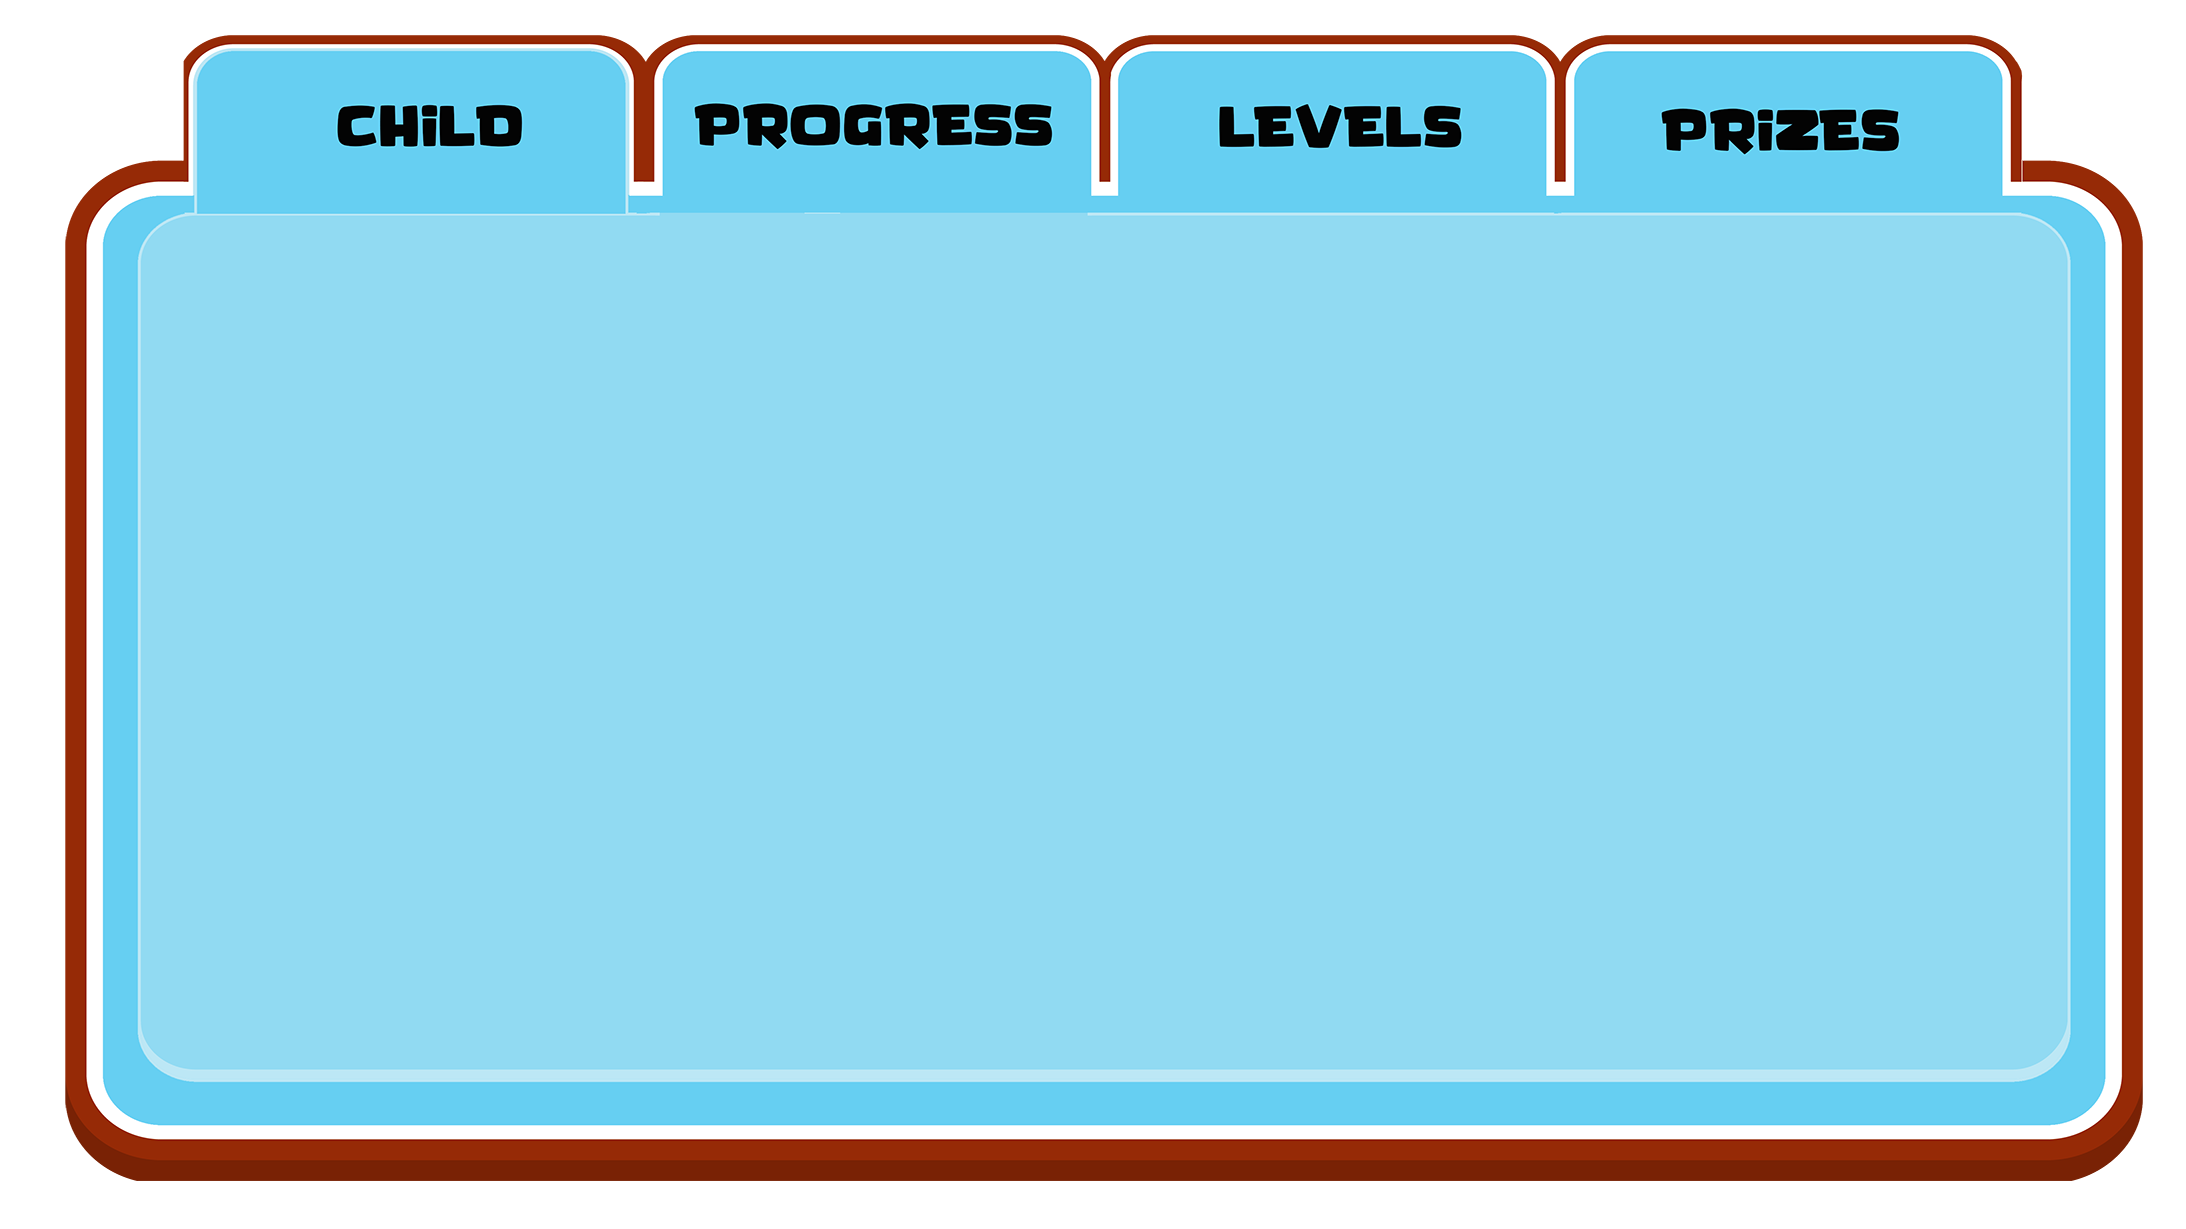
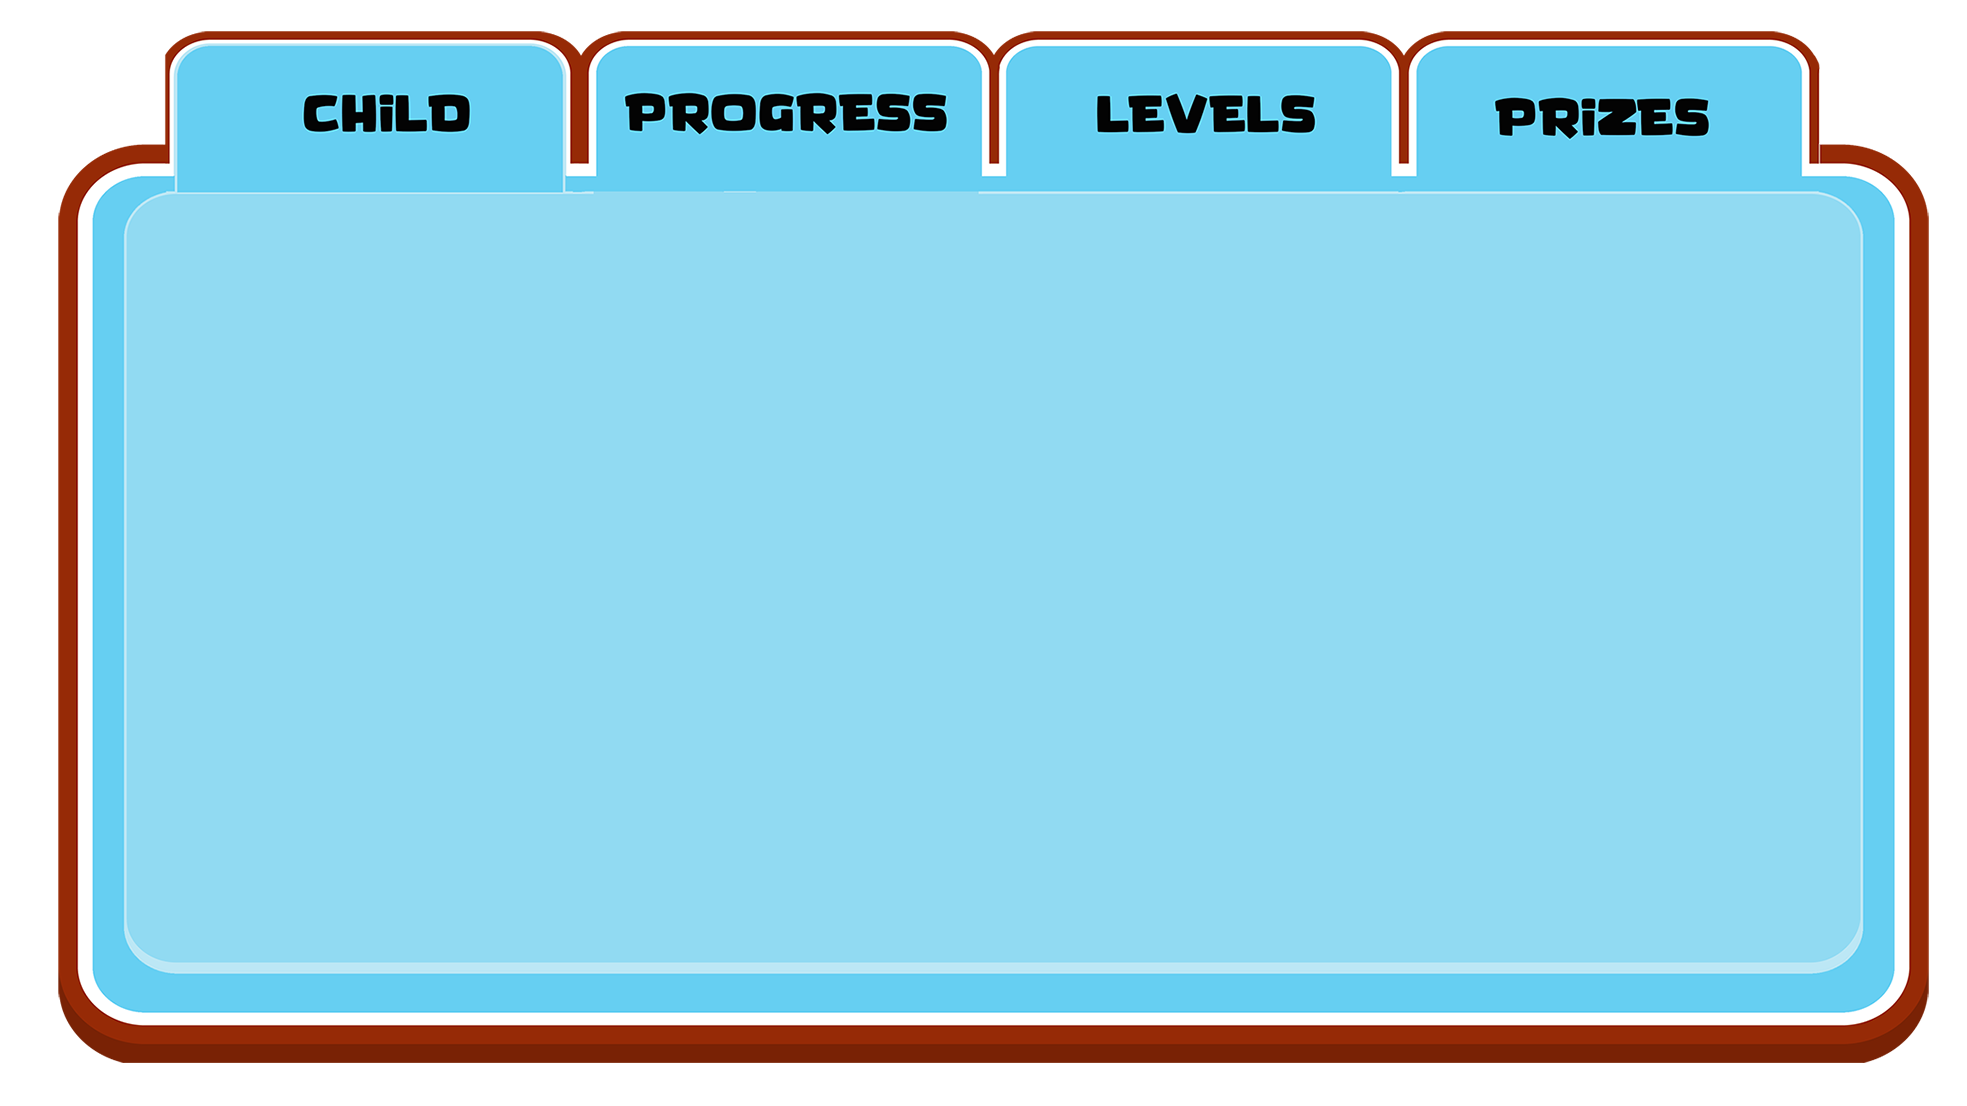
grid improved on parents section

diff --git a/my-project-client/src/parents.js b/my-project-client/src/parents.js
@@ -3,9 +3,10 @@ import { NavLink, withRouter } from 'react-router-dom';
 import {connect} from 'react-redux'
 import "./styles.css"
 import { render } from 'react-dom';
-
+import Progress from "./Progress.js"
 import ChildSignUp from './ChildSignUp.js'
-  
+import Levels from "./Levels.js"
+import Prizes from "./Prizes.js"
 
 
 class Parents extends React.Component{
@@ -13,23 +14,7 @@ class Parents extends React.Component{
         childInfo: null
     }
 
-    // upload=()=>{
-    //     fetch("http://localhost:3000/children/",
-    //     {
-    //     method: "POST",
-    //     headers: {
-    //         "Content-Type" : "application/json"
-    //     },
-    //     body: JSON.stringify({
-    //         screen_shot: imageSrc, 
-    //         username: localStorage.user
-    //     })
-    //     })
-    //     .then(res => res.json())
-    //     .then(image=> 
-    //       console.log(image)
-    //     ) 
-    // }
+   
 
     changeComp = (e) => {
         e.preventDefault();
@@ -69,33 +54,33 @@ class Parents extends React.Component{
         case null:
           return <ChildSignUp/>
         case 'progress':
-            return <h1>progress</h1>
+            return <Progress/>
         case 'levels':
-            return <h1>levels</h1>
+            return <Levels/>
         case 'prizes':
-            return <h1>prizes</h1>
+            return <Prizes/>
         default: 
             return <ChildSignUp/>;
         }
     }
 
     render(){
-        const { username, password, email, first_name, last_name } = this.state
           return(
 
-<div class="parent_page parents-bg-img parents_page">
-<div class="div1"> </div>
-<div class="div2"> 
-<img width="2300px" height="1300px" src="./assets/images/parents_tabs.png" usemap="#image-map"  hidefocus="true"/> 
+<div className="parent_page parents-bg-img parents_page">
+<div className="div20"> 
+<img width="100%" height="100%" src="./assets/images/parents_tabs.png" usemap="#image-map" hidefocus="true"/> 
 
 <map name="image-map">
-                        <area target="" alt="Child" title="Child" href="" coords="220,70,622,203" shape="rect" onClick={(e)=> this.changeComp(e)}></area>
-                        <area target="" alt="Progress" title="Progress" href="" coords="682,75,1078,189,1151,77,1533,191" shape="0" onClick={(e)=> this.changeComp2(e)}></area>
-                        <area target="" alt="Levels" title="Levels" href="" coords="1130,71,1531,195" shape="0" onClick={(e)=> this.changeComp3(e)}></area>
-                        <area target="" alt="Prizes" title="Prizes" href="" coords="1601,66,1991,187" shape="0" onClick={(e)=> this.changeComp4(e)}></area>
+                        <area target="" alt="Child" title="Child" href="" coords="288,36,710,213" shape="rect" onClick={(e)=> this.changeComp(e)}></area>
+                        <area target="" alt="Progress" title="Progress" href="" coords="755,58,1190,208,952,148,1479,112" shape="rect" onClick={(e)=> this.changeComp2(e)}></area>
+                        <area target="" alt="Levels" title="Levels" href="" coords="1219,51,1618,204,1394,94,1836,123" shape="rect" onClick={(e)=> this.changeComp3(e)}></area>
+                        <area target="" alt="Prizes" title="Prizes" href="" coords="1660,50,2078,202,452,77,1878,126" shape="rect" onClick={(e)=> this.changeComp4(e)}></area>
                     </map>
+
 </div>
-<div class="div3"> </div>
+
+
 
 {this.renderSwitch(this.state.childInfo)}
 </div>         

diff --git a/my-project-client/src/ChildSignUp.js b/my-project-client/src/ChildSignUp.js
@@ -2,13 +2,13 @@ import React, {Component} from 'react'
 import { NavLink, withRouter } from 'react-router-dom';
 import {connect} from 'react-redux'
 import "./styles.css"
-import { render } from 'react-dom';
+
   
 
 
 class ChildSignUp extends React.Component{
     state={
-        child_picture: "https://via.placeholder.com/150"
+        childPicture: "https://via.placeholder.com/150"
     }
     
     handleChange = (e) => {
@@ -17,17 +17,35 @@ class ChildSignUp extends React.Component{
         })
     }
 
+     // upload=()=>{
+    //     fetch("http://localhost:3000/children/",
+    //     {
+    //     method: "POST",
+    //     headers: {
+    //         "Content-Type" : "application/json"
+    //     },
+    //     body: JSON.stringify({
+    //         screen_shot: imageSrc, 
+    //         username: localStorage.user
+    //     })
+    //     })
+    //     .then(res => res.json())
+    //     .then(image=> 
+    //       console.log(image)
+    //     ) 
+    // }
+    
     render(){
         const { username, password, email, first_name, last_name } = this.state
           return(
             <>
                
-            <div class="div4"> 
-            <img src={this.state.childPicture} width="350px"/>            
-                     <img onClick={this.upload} src={require('./images/addchildpicbtn.svg')} width="350px"/>
+            <div class="div24"> 
+            <img src={this.state.childPicture} width="450px"/>            
+                     <img onClick={this.upload} src={require('./images/addchildpicbtn.svg')} width="450px"/>
             </div>
 
-            <div class="div5"> 
+            <div class="div25"> 
             <form>
                 <br/>
                 <br/>
@@ -50,6 +68,10 @@ class ChildSignUp extends React.Component{
                 <img className="yellowbutton" src={require('./images/submitbutton.png')} onClick={(e) => this.signUp(e)}/> 
         
             </form>
+            </div>
+
+            <div className="div26">
+                <img width="100%" height="100%" src={require("./images/dog.png")}/>
             </div>
                </>    
     

diff --git a/my-project-client/src/styles.css b/my-project-client/src/styles.css
@@ -258,7 +258,7 @@ z-index: 1
 .parents-bg-img{
    
     background-image: url("./images/parents_landingbg.svg");
-    min-height: 1500px;
+    min-height: 120%;
     background-position: center;
     background-repeat: no-repeat;
     background-size: cover;
@@ -291,13 +291,14 @@ z-index: 1
     
 .parent_page {
     display: grid;
-    grid-template-columns: repeat(5, 1fr);
-    grid-template-rows: repeat(5, 1fr);
-    grid-column-gap: 0px;
-    grid-row-gap: 0px;
+    grid-template-columns: .125fr .5fr .25fr repeat(4, .5fr) .125fr .5fr .25fr .125fr;
+    grid-template-rows: .1fr .07fr .125fr repeat(5, .25fr);
+    grid-column-gap: 32px;
+    grid-row-gap: 22px;
     }
     
-    .div1 { grid-area: 1 / 1 / 6 / 6; 
+    .div1 { grid-area: 1 / 1 / 6 / 6;
+        self-align: center; 
     z-index: 1}
     .div2 { grid-area: 1 / 1 / 6 / 6; 
         z-index: 2}
@@ -307,6 +308,26 @@ z-index: 1
         z-index: 4}
     .div5 { grid-area: 2 / 3 / 5 / 5;
         z-index: 5 }
+    .div6 { grid-area: 2 / 1 / 5 / 5;
+        margin-right: auto;
+        z-index:6 
+    }
+    .div7 { grid-area: 2 / 4 / 5 / 5; 
+    z-index: 7}
+
+    .div13 { grid-area: 2 / 3 / 8 / 10; }
+    .div15 { grid-area: 1 / 3 / 7 / 9; }
+    .div16 { grid-area: 2 / 4 / 6 / 6; }
+    .div17 { grid-area: 2 / 6 / 6 / 8; }
+.div18 { grid-area: 2 / 8 / 6 / 9; }
+.div19 { grid-area: 2 / 3 / 8 / 10; }
+.div20 { grid-area: 1 / 2 / 8 / 10; }
+.div22 { grid-area: 3 / 3 / 7 / 9; }
+.div23 { grid-area: 3 / 3 / 7 / 6; }
+.div24 { grid-area: 4 / 3 / 7 / 5; }
+.div25 { grid-area: 4 / 5 / 7 / 9; }
+.div26 { grid-area: 4 / 7 / 7 / 9; }
+.div27 { grid-area: 4 / 3 / 7 / 9; } 
 
 
 img[usemap], map area{

diff --git a/my-project-client/src/Progress.js b/my-project-client/src/Progress.js
@@ -1,0 +1,29 @@
+import React, {Component} from 'react'
+import { NavLink, withRouter } from 'react-router-dom';
+import {connect} from 'react-redux'
+import "./styles.css"
+
+  
+
+
+class Progress extends React.Component{
+
+
+    render(){
+          return(
+        <>
+            <div class="div24"> <h1>DIV 3</h1>
+            </div>
+
+            <div class="div25"> 
+                <h1>Progress Tab </h1>
+            </div>
+        </>    
+    )
+    }
+  
+    
+}
+
+
+export default Progress

diff --git a/my-project-client/src/Levels.js b/my-project-client/src/Levels.js
@@ -1,0 +1,29 @@
+import React, {Component} from 'react'
+import { NavLink, withRouter } from 'react-router-dom';
+import {connect} from 'react-redux'
+import "./styles.css"
+
+  
+
+
+class Levels extends React.Component{
+
+
+    render(){
+          return(
+        <>
+            <div class="div24"> <h1>DIV 3</h1>
+            </div>
+
+            <div class="div25"> 
+                <h1>Levels Tab </h1>
+            </div>
+        </>    
+    )
+    }
+  
+    
+}
+
+
+export default Levels

diff --git a/my-project-client/src/Prizes.js b/my-project-client/src/Prizes.js
@@ -1,0 +1,29 @@
+import React, {Component} from 'react'
+import { NavLink, withRouter } from 'react-router-dom';
+import {connect} from 'react-redux'
+import "./styles.css"
+
+  
+
+
+class Prizes extends React.Component{
+
+
+    render(){
+          return(
+        <>
+            <div class="div24"> <h1>DIV 3</h1>
+            </div>
+
+            <div class="div25"> 
+                <h1>Prizes Tab </h1>
+            </div>
+        </>    
+    )
+    }
+  
+    
+}
+
+
+export default Prizes
